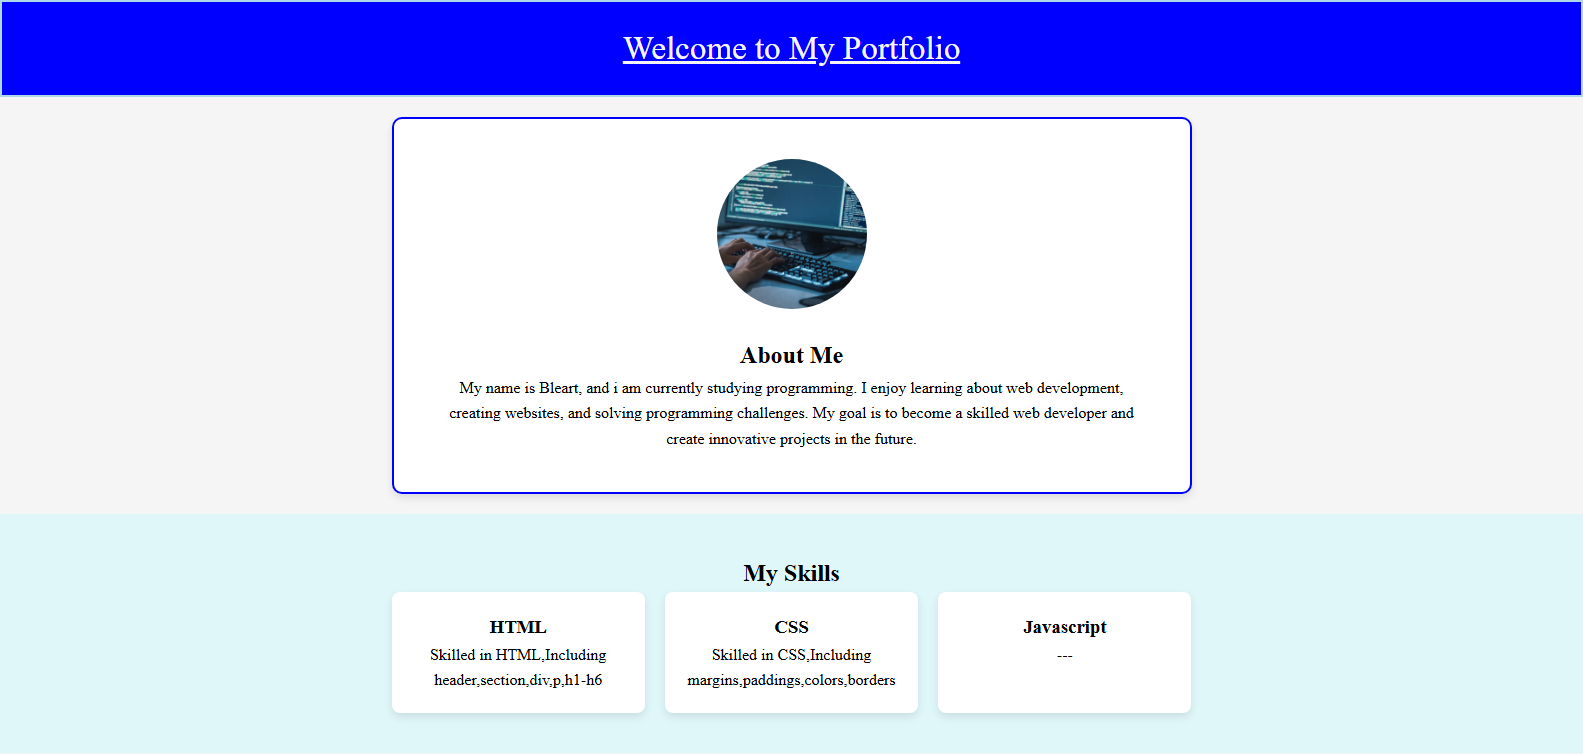
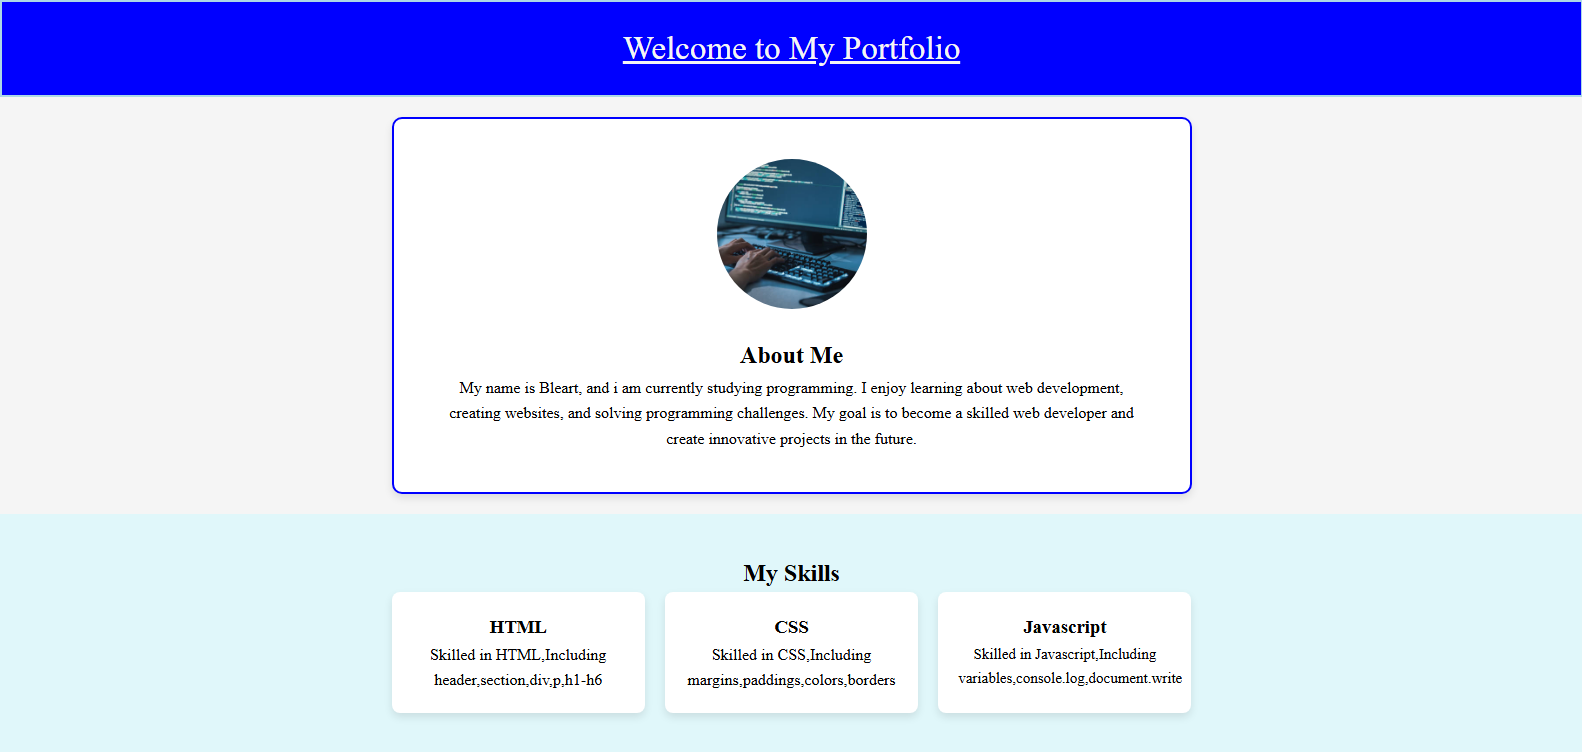
Add files via upload

diff --git a/index.html b/index.html
@@ -40,7 +40,7 @@
 
         <div class="skill">
             <h3 style="font-family: Noto Sans; color: black;">Javascript</h3>
-            <p style="font-family: Noto Sans; color: black;">--- </p>
+            <p class="p1" style="font-family: Noto Sans; color: black; font-size: 15px;">Skilled in Javascript,Including variables,console.log,document.write </p>
         </div>
 
 </section>

diff --git a/styles.css b/styles.css
@@ -45,6 +45,9 @@ header #aboutme .link3{
         color: white;
         font-size: 29px;
     }
+
+   
+
 }
 
 /* Header styles */
